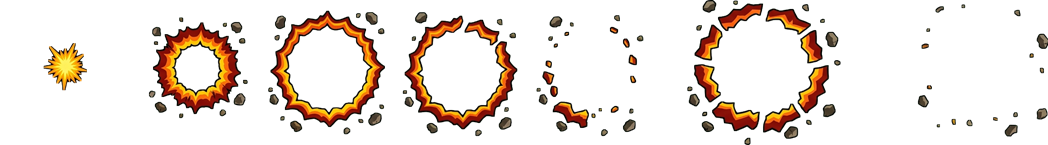
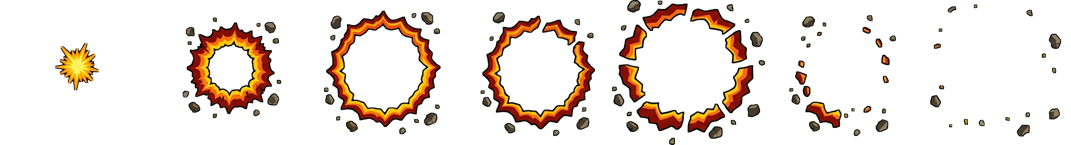
Play the explosion whole, and lay its sheet out on one grid
Every explosion dispersed into debris and then came back as a ring, which is not a thing explosions do. The cause was not in the animation but in the sheet it is cut from. The top row of explosion.png is five cells of 291 and the bottom row is three of 485, each with its own faint borders, and the importer assumes one uniform grid throughout. So it cut the bottom row on the top row's pitch, which sliced the broken ring down there in half and played its outer arcs as a frame of their own two beats later.

Nothing can cut all seven drawings off that sheet as it stands. The ring measures 343 across and the top row's drawings are 291 apart, so a window wide enough to hold the ring whole reaches into the drawing beside it upstairs, and a window narrow enough to clear that neighbour is the slice we already had. Taking the top row alone would give five frames that at least read in order, at the cost of the two best beats: the bigger broken ring belongs fifth, and the debris belongs last.

What makes them recoverable is that every drawing is centred in its own cell, and that centre is the blast origin. That was measured rather than assumed, because the whole fault here came from assuming a layout: the top row's drawings sit within four pixels of their cell centres and the bottom row's within two. So each one can be lifted on its own centre and laid out again on a common grid of 346, and the explosion stays still while the two rows go on disagreeing about everything else.
[…]

diff --git a/client/src/Game/WorldView.cs b/client/src/Game/WorldView.cs
@@ -1731,7 +1731,7 @@ public partial class WorldView : Control
     /// <summary>The longest a blast is on screen, which the biggest thing in the arsenal gets.</summary>
     private const int BlastTicks = 22;
 
-    /// <summary>And the shortest, for a clod. Any less and the eight frames cannot all be seen.</summary>
+    /// <summary>And the shortest, for a clod. Any less and the strip's frames cannot all be seen.</summary>
     private const int ShortestBlastTicks = 11;
 
     /// <summary>

diff --git a/client/src/Game/Art.cs b/client/src/Game/Art.cs
@@ -157,7 +157,7 @@ public static class Art
     public static readonly IReadOnlyDictionary<string, int> EffectFrames =
         new Dictionary<string, int>
         {
-            { "blast", 8 },
+            { "blast", 7 },
             { "ring", 8 },
             { "geyser", 5 },
             { "drill", 6 },
